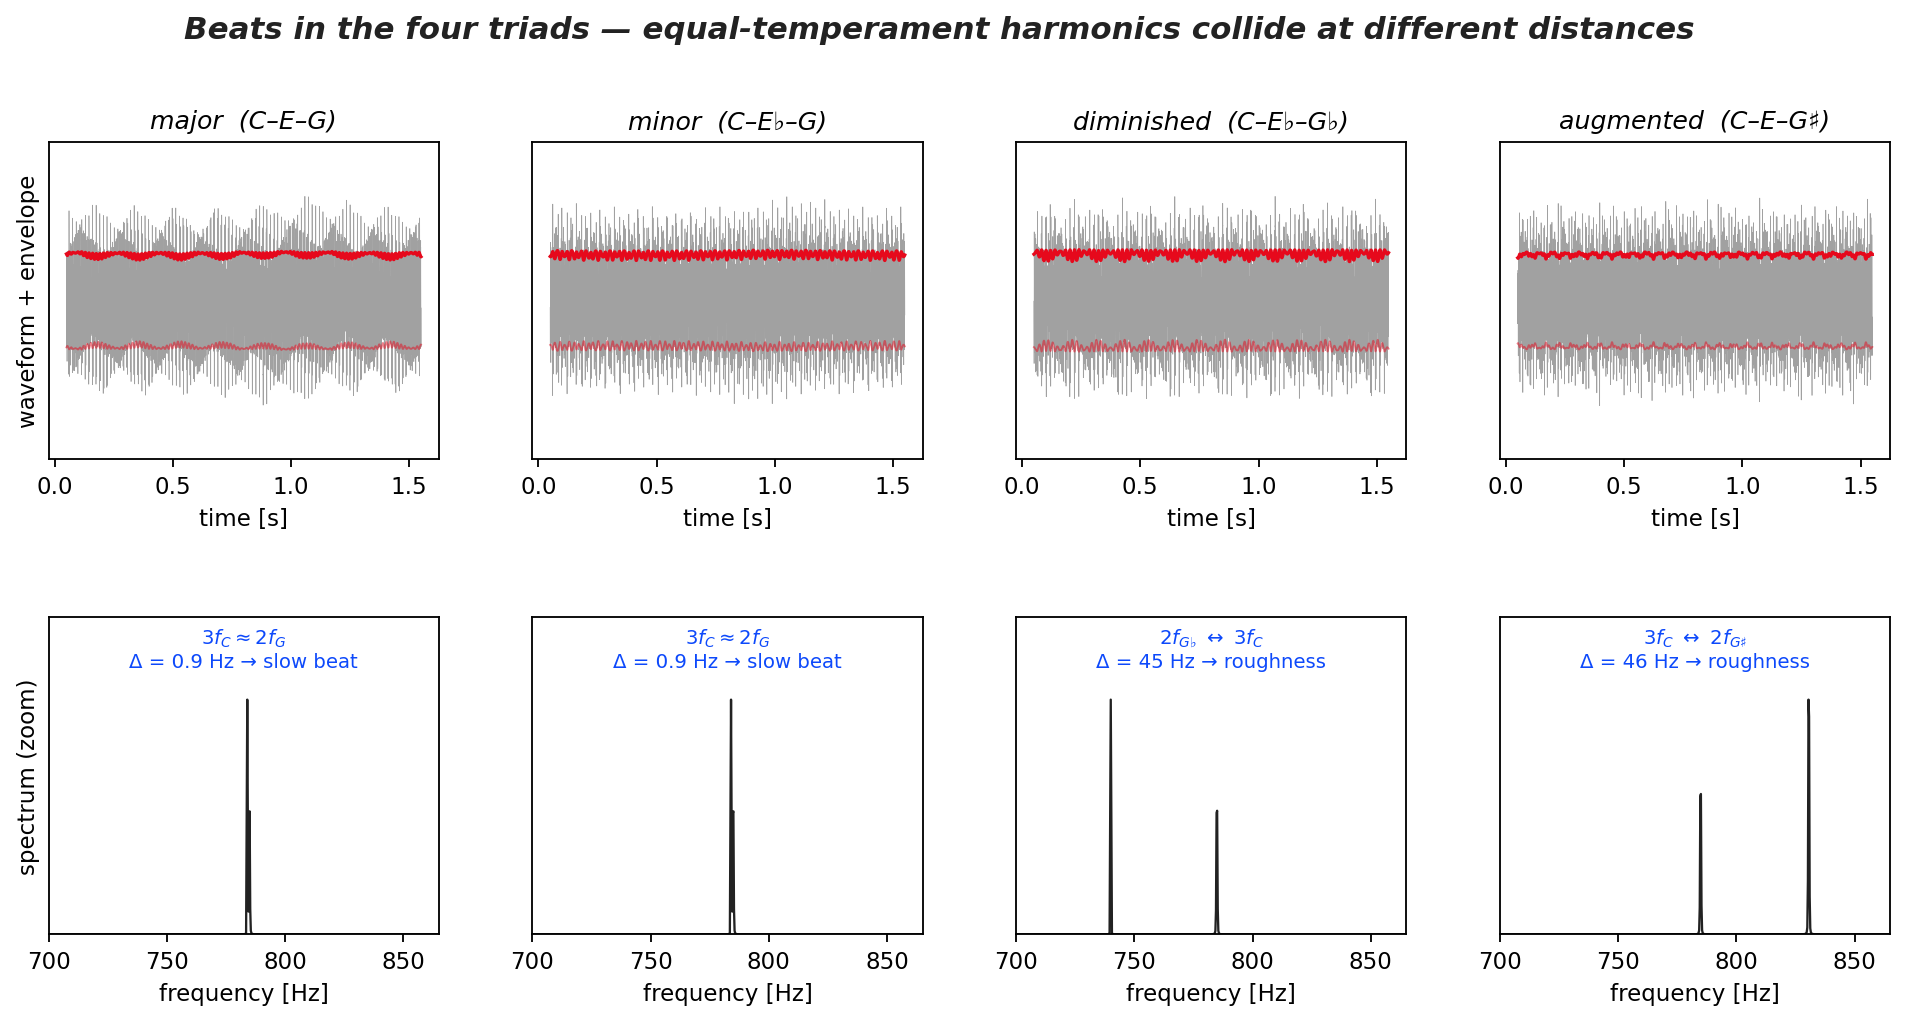
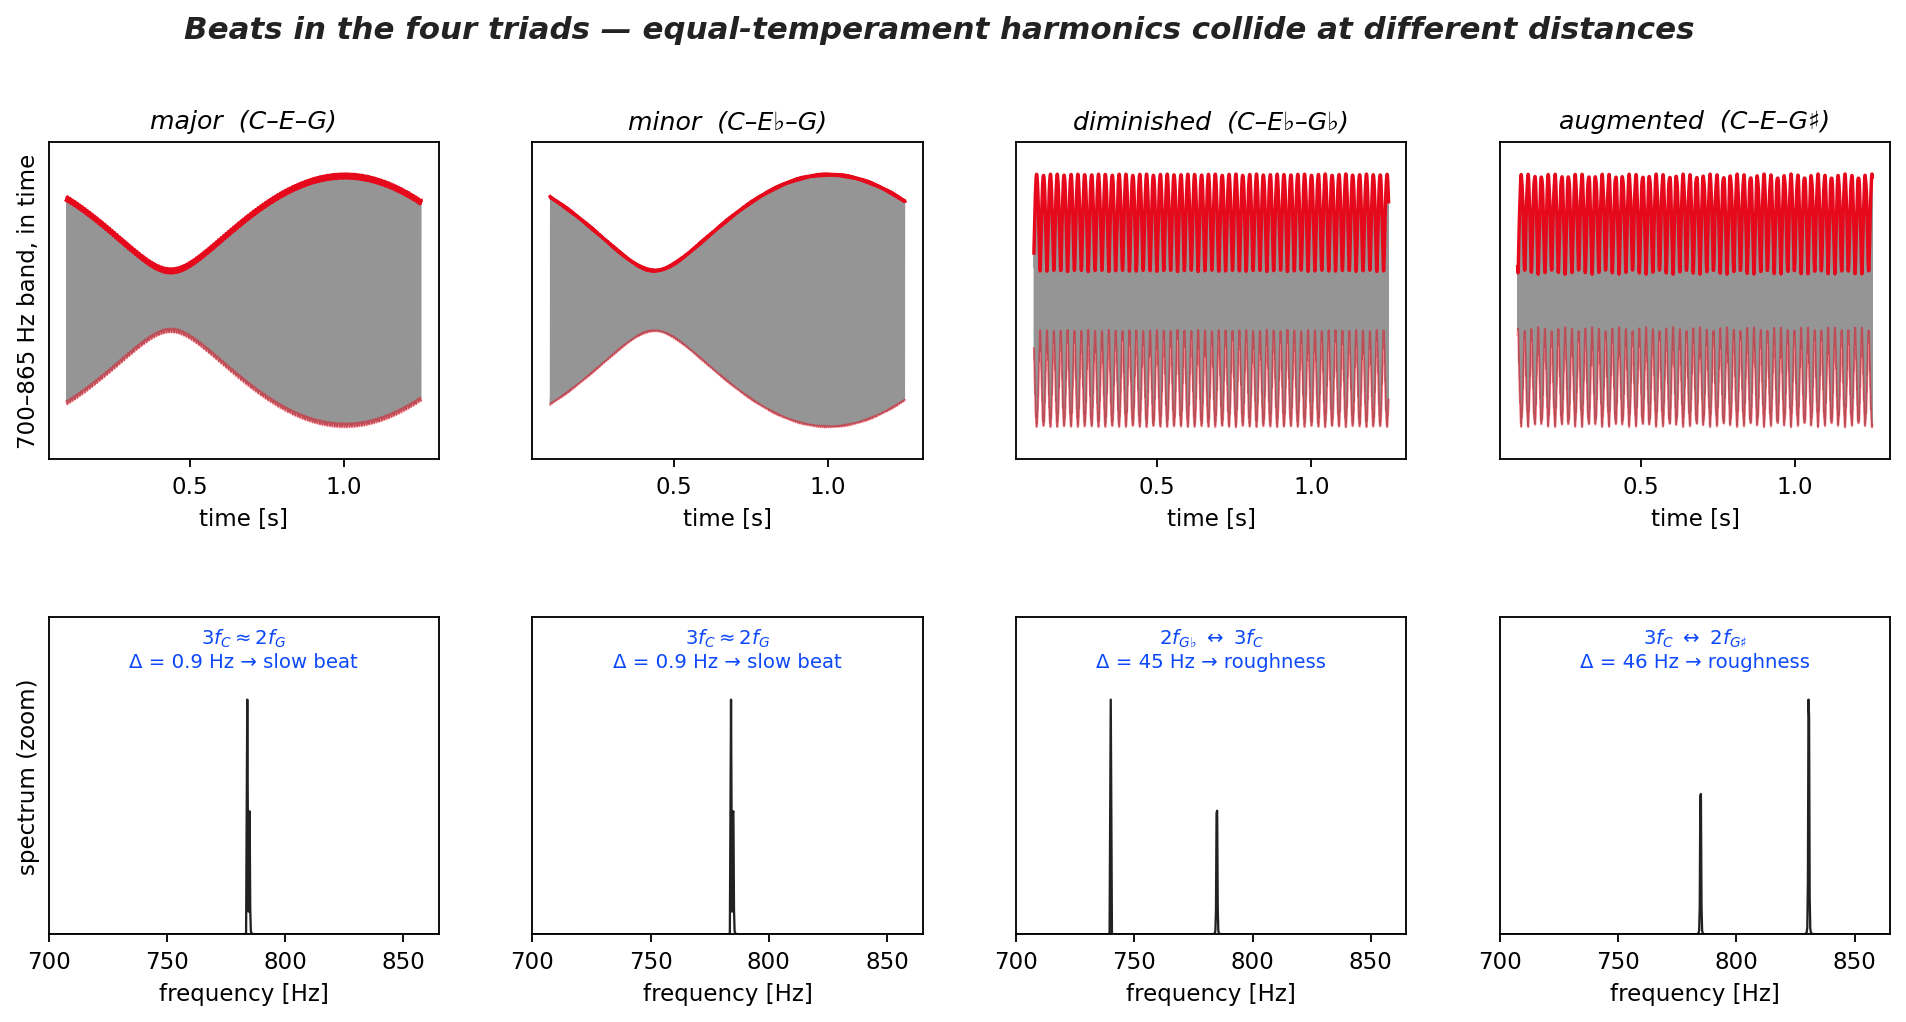
triad beats: top row now shows the colliding pair band-passed in time
- Band-pass each chord through the same 700-865 Hz window shown in the
  spectrum row and plot that waveform + envelope: major/minor display a
  single >1 s beat packet (0.9 Hz), diminished/augmented a train of
  ~22 ms packets (45 Hz) - the packet-length contrast is now unmissable
- Rows are the same object in two domains; caption states packet length
  = inverse line spacing
- Chapter code block gains the band-pass line

Claude-Session: https://claude.ai/code/session_013g6Jis2ksDyqM4YC8tx1nv

diff --git a/docs/chap1.html b/docs/chap1.html
@@ -1027,12 +1027,17 @@ f_s &gt; 2f_{max}
 <span id="cb12-18"><a href="#cb12-18" aria-hidden="true" tabindex="-1"></a><span class="co"># where the harmonics collide:</span></span>
 <span id="cb12-19"><a href="#cb12-19" aria-hidden="true" tabindex="-1"></a><span class="co">#   3*f_C = 784.9 Hz   vs  2*f_G  = 784.0 Hz   -&gt;  0.9 Hz   slow beat  (maj, min)</span></span>
 <span id="cb12-20"><a href="#cb12-20" aria-hidden="true" tabindex="-1"></a><span class="co">#   3*f_C = 784.9 Hz   vs  2*f_Gb = 740.0 Hz   -&gt; 44.9 Hz   roughness  (dim)</span></span>
-<span id="cb12-21"><a href="#cb12-21" aria-hidden="true" tabindex="-1"></a><span class="co">#   3*f_C = 784.9 Hz   vs  2*f_G# = 830.6 Hz   -&gt; 45.7 Hz   roughness  (aug)</span></span></code></pre></div><button title="Copy to Clipboard" class="code-copy-button"><i class="bi"></i></button></div>
+<span id="cb12-21"><a href="#cb12-21" aria-hidden="true" tabindex="-1"></a><span class="co">#   3*f_C = 784.9 Hz   vs  2*f_G# = 830.6 Hz   -&gt; 45.7 Hz   roughness  (aug)</span></span>
+<span id="cb12-22"><a href="#cb12-22" aria-hidden="true" tabindex="-1"></a></span>
+<span id="cb12-23"><a href="#cb12-23" aria-hidden="true" tabindex="-1"></a><span class="co"># isolate the colliding pair to SEE its beat: band-pass around the collision</span></span>
+<span id="cb12-24"><a href="#cb12-24" aria-hidden="true" tabindex="-1"></a><span class="im">import</span> scipy.signal</span>
+<span id="cb12-25"><a href="#cb12-25" aria-hidden="true" tabindex="-1"></a>bp <span class="op">=</span> {name: scipy.signal.filtfilt(<span class="op">*</span>scipy.signal.butter(<span class="dv">4</span>, [<span class="dv">700</span>, <span class="dv">865</span>],</span>
+<span id="cb12-26"><a href="#cb12-26" aria-hidden="true" tabindex="-1"></a>            btype<span class="op">=</span><span class="st">'band'</span>, fs<span class="op">=</span>fs), y) <span class="cf">for</span> name, y <span class="kw">in</span> signals.items()}</span></code></pre></div><button title="Copy to Clipboard" class="code-copy-button"><i class="bi"></i></button></div>
 </div>
 </div>
 </div>
 <p align="center">
-Top: waveform and envelope of each triad — the major chord’s envelope undulates at the slow 0.9 Hz beat of its near-pure fifth, while the diminished and augmented chords ripple rapidly. Bottom: the same 700–865 Hz spectral window for all four — in the major and minor chords two harmonics almost merge into one line; in the diminished and augmented chords they stand ~45 Hz apart.
+The same 700–865 Hz band of each chord, seen in both domains. Top: the band-passed waveform — in the major and minor triads the colliding pair beats once per second, a single wave packet longer than the panel; in the diminished and augmented triads the packets shrink to ~22 ms, repeating 45 times a second. Bottom: the band’s spectrum — two lines almost merged (slow beat) versus two lines ~45 Hz apart (roughness). The packet length in time is exactly the inverse of the line spacing in frequency.
 </p>
 <p>Listen to the four — same root, same synthesis, only the intervals differ. The beating you hear <em>is</em> the spectral spacing in the bottom row:</p>
 <table style="width:100%; border:none; text-align:center;">
